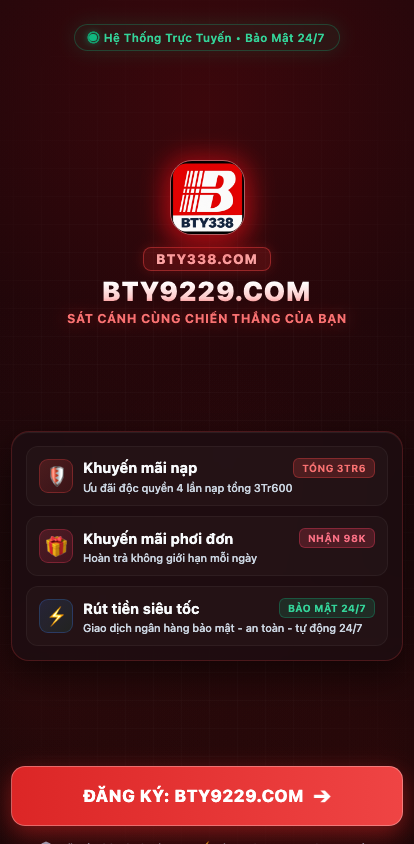
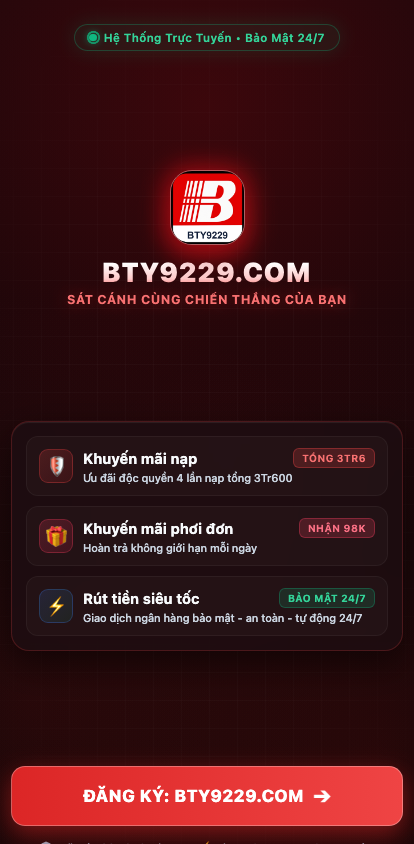
Remove BTY338 and update branding exclusively to BTY9229

diff --git a/index.html b/index.html
@@ -471,10 +471,7 @@
     <section class="brand-section">
       <div class="logo-wrapper">
         <div class="logo-glow"></div>
-        <img src="logo.png" alt="BTY338 / BTY9229.COM Logo" class="brand-logo-img">
-      </div>
-      <div class="brand-badge-box">
-        BTY338.COM
+        <img src="logo.png" alt="BTY9229.COM Logo" class="brand-logo-img">
       </div>
       <h1 class="brand-name">
         BTY9229.COM
